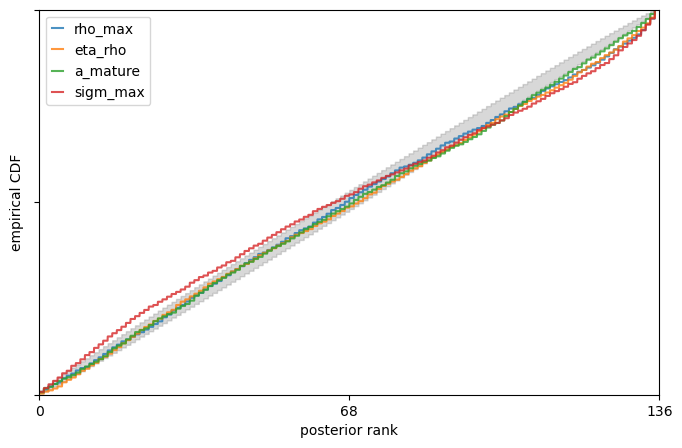
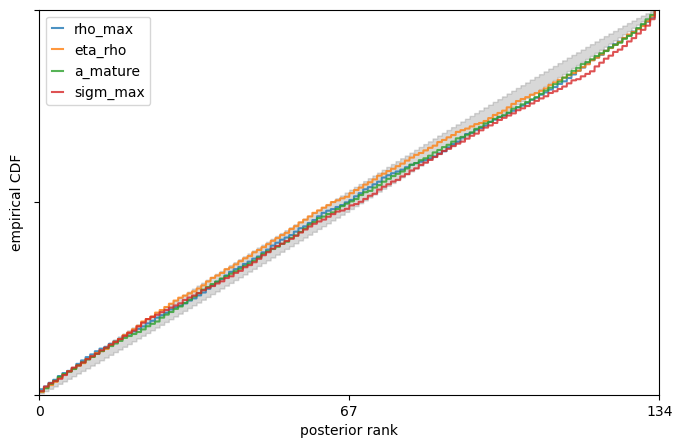
Original bins; flat sigm_rho; no level out stat
Settling on this for now, passes calibration

Changed region(s): [[0.0616, 0.0312, 0.9545, 0.875], [0.9545, 0.9062, 0.9853, 0.9375], [0.4927, 0.9062, 0.5235, 0.9375]]

diff --git a/model_fitting/fecundity/simulator.py b/model_fitting/fecundity/simulator.py
@@ -18,7 +18,7 @@ for i in range(len(fecundity_err_bren)):
     else:
         fecundity_err = fecundity_bren[i] * np.sqrt((prefire_density_sd[i]/prefire_density[i])**2 + (rec_density_sd[i]/rec_density[i])**2)
     fecundity_err_bren[i] = fecundity_err
-delete_indices = [1,3,4]
+delete_indices = []
 stand_age_bren = np.delete(stand_age_bren, delete_indices)
 fecundity_bren = np.delete(fecundity_bren, delete_indices)
 num_sites = np.delete(num_sites, delete_indices)
@@ -48,7 +48,8 @@ fecundity_all = np.concatenate((fecundity_bren, fecundity_dunn, fecundity_rb, fe
 weights = np.concatenate((num_sites, np.ones(len(stand_age_dunn)), np.ones(len(stand_age_rb)), np.ones(len(stand_age_dg))))[sort]
 binwidth = 22
 numbins = max(stand_age_all) // binwidth + (max(stand_age_all) % binwidth > 0)
-custom_bin_edges = [0, 20, 30, 45, 65]
+#custom_bin_edges = [0, 20, 30, 45, 65]
+custom_bin_edges = [0, 22, 44, 66]
 numbins = len(custom_bin_edges) - 1
 age_cntrs = np.zeros(numbins)
 mean_fecundities = []
@@ -76,7 +77,7 @@ with open('fecundity/fixed.pkl', 'wb') as handle:
     pickle.dump(fixed, handle)
 def simulator(params):
     rho_max = params[0]; eta_rho = params[1]; a_mature = params[2]
-    sigm_max = params[3]; eta_sigm = fixed['eta_sigm']; 
+    sigm_max = params[3]; eta_sigm = fixed['eta_sigm']
     a_sigm_star = a_mature #a_sigm_star = params[5]
 
     # Read this in from file(s) in the actual script

diff --git a/model_fitting/sbi_main.py b/model_fitting/sbi_main.py
@@ -52,16 +52,16 @@ for pr in processes:
         labels = ['rho_max', 'eta_rho', 'a_mature', 'sigm_max']#, 'eta_sigm']#, 'a_sigm_star']
         #labels = ['eta_rho', 'a_mature', 'sigm_max']
         ranges = np.array([
-                           [1, 150],
+                           [10, 600],
                            [0.01, 0.8],
-                           [15, 60],
-                           [0.01, 4]
+                           [15, 80],
+                           [0.01, 6]
                            #[0.01, 0.8]
         ])
-        restrictor_sims = 10_000
+        restrictor_sims = 20_000
         training_sims = 20_000
         num_samples = 1_000_000 
-        allowed_false_negatives = 0.15
+        allowed_false_negatives = 0.1
 
     with open(pr+"/param_labels.pkl", "wb") as handle:
         pickle.dump(labels, handle)

diff --git a/model_fitting/calibration.py b/model_fitting/calibration.py
@@ -12,7 +12,7 @@ from sbi.utils import MultipleIndependent
 from torch import tensor
 import json
 
-processes = ['mortality']
+processes = ['fecundity']
 for pr in processes:
     if pr == 'mortality':
         from mortality.simulator import simulator, fixed
